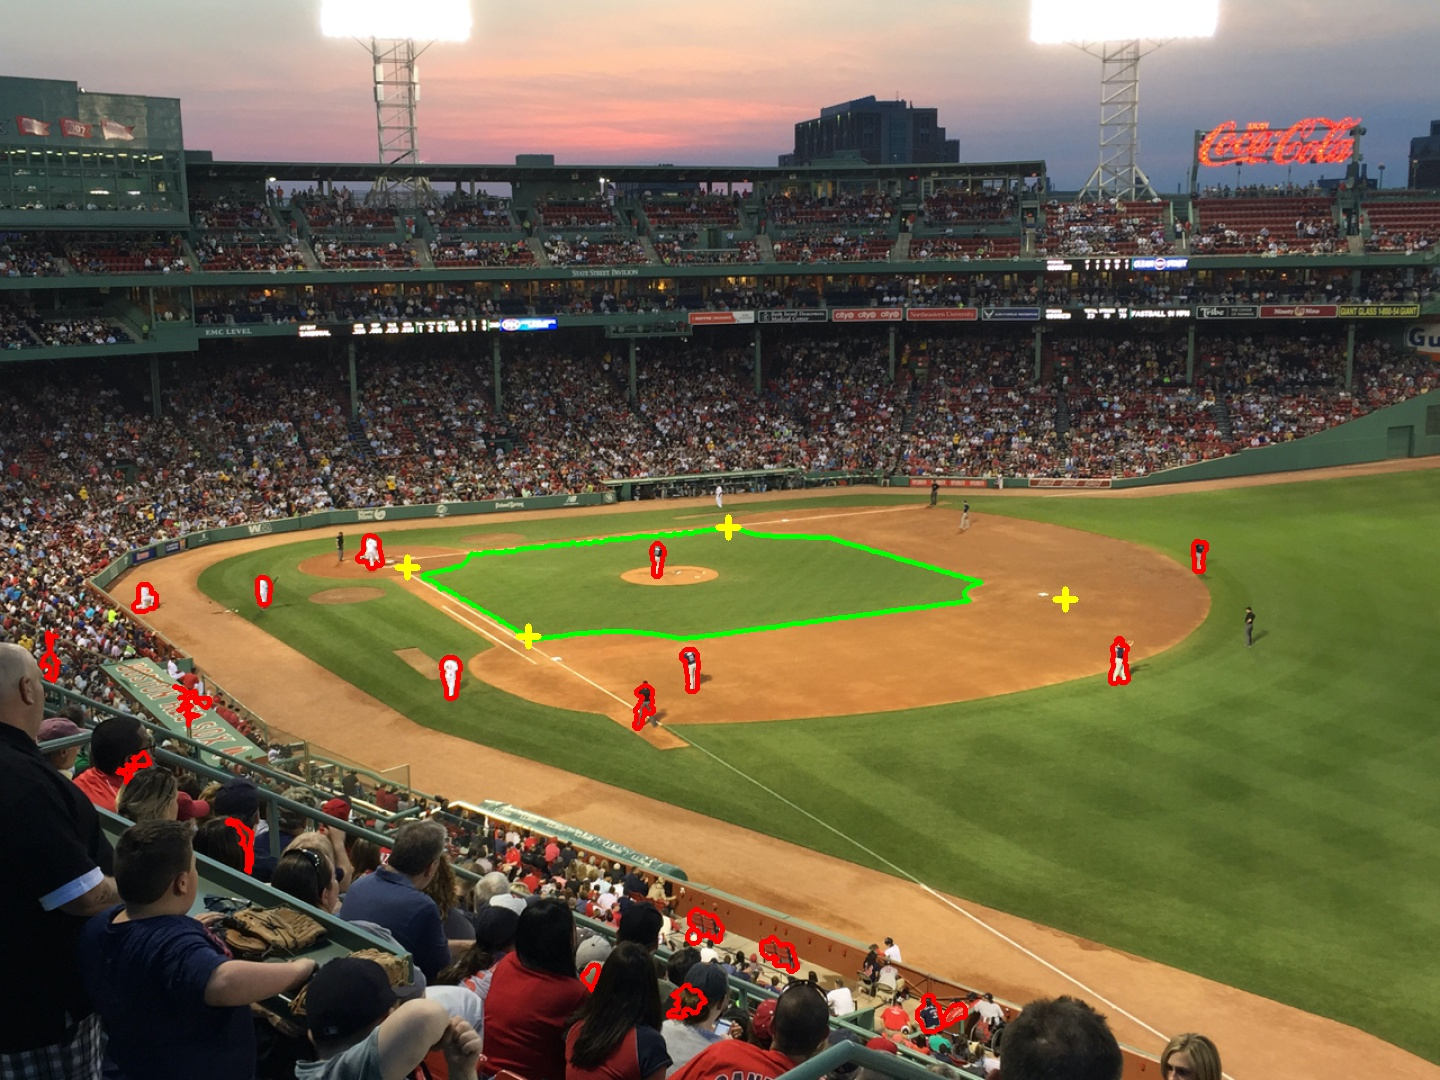
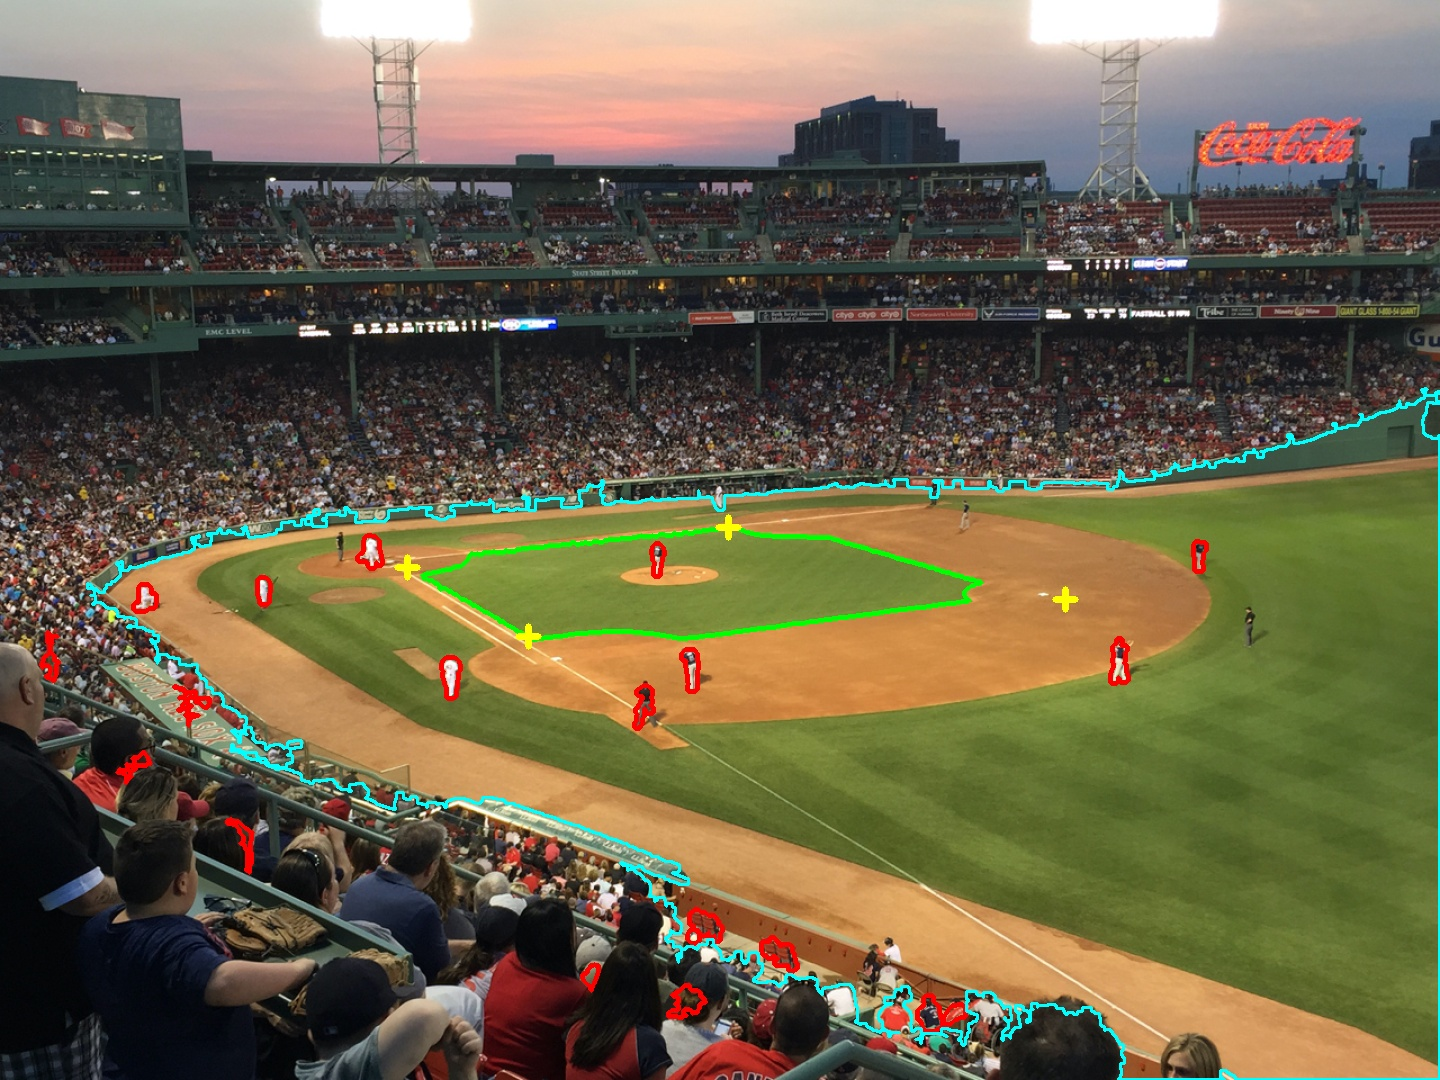
write method to check if players contours are actually on the field -- yet to be tested or implemented

diff --git a/TestPersonDetection/personDetectionTesting.py b/TestPersonDetection/personDetectionTesting.py
@@ -25,6 +25,8 @@ class PlayerFinder(object):
         self.infield = None
         self.infield_cnrs = None
 
+        self.fieldDraw = None
+
         return
 
     def reset_variables(self):
@@ -52,34 +54,33 @@ class PlayerFinder(object):
         mask = cv2.bitwise_or(mask_green, mask_brown)
         mask = cv2.bitwise_or(mask, mask_dark_brown)
         
-        image = self.get_infield_cnrs(mask_green, image)    #pass in image for quad fit debugging
+        im = self.get_infield_cnrs(mask_green, image)    #pass in image for quad fit debugging
+        if im is not None:
+            image = im      #updates output for drawing debug
         self.get_player_contours(mask)
         print("Thank you, next...")
  
         return image
     
-    def get_infield_cnrs(self, mask, image):
+    def get_infield_cnrs(self, mask, image):    #array return order: home, first, second, third
         erosion = cv2.erode(mask, numpy.ones((4, 4), numpy.uint8), iterations = 1)
         _, self.infield_contours, _ = cv2.findContours(erosion, cv2.RETR_TREE, cv2.CHAIN_APPROX_SIMPLE)
 
-        infield_contour_list = self.area_cut(self.infield_contours, 18500, 200000)
+        infield_contour_list = self.area_cut(self.infield_contours, 18500, 2000000)
         #self.infield = min(infield_contour_list, key=lambda x:x['area'])['contour']
         
         self.top_infield = [x['contour'] for x in infield_contour_list]
 
-        #hulls = [cv2.convexHull(x) for x in self.top_infield]    # too little coordinates for quad_fit
-        #self.infield = self.top_infield[0]
-
-        for inf in infield_contour_list:
-            width = inf['widths'][0]
-            height = inf['widths'][1]
+        for cnt in infield_contour_list:
+            width = cnt['widths'][0]
+            height = cnt['widths'][1]
             ratio = height / width
 
-            if (ratio < 0.4) and (self.infield is None or width < self.infield['widths'][0]) and cv2.contourArea(inf['contour']) > 10000:
-                self.infield = inf
+            if (ratio < 0.4) and (self.infield is None or width < self.infield['widths'][0]) and cv2.contourArea(cnt['contour']) > 10000:
+                self.infield = cnt
 
         if self.infield is None:
-            return
+            return None
         
         self.infield = self.infield['contour']
 
@@ -93,8 +94,25 @@ class PlayerFinder(object):
     def get_player_contours(self, mask):
         erosion = cv2.erode(mask, numpy.ones((5,5), numpy.uint8), iterations = 1)   
         _, self.player_contours, _ = cv2.findContours(erosion, cv2.RETR_TREE, cv2.CHAIN_APPROX_SIMPLE)
+        
+        field = None
 
-        contour_list = self.area_cut(self.player_contours, 270, 2000)
+        contour_list = []
+        for c in self.player_contours:
+            center, widths = self.contour_center_width(c)
+            area = widths[0] * widths[1]
+
+            if area > 270 and area < 2000:
+                contour_list.append({'contour': c, 'center': center, 'widths': widths, 'area': area})
+
+            if field is None or field['area'] < area:
+                field = {'contour': c, 'center': center, 'widths': widths, 'area': area}
+            
+        # Sort the list of contours from biggest area to smallest
+        contour_list.sort(key=lambda c: c['widths'][0] * c['widths'][1], reverse=True)
+
+        self.fieldDraw = field['contour']
+
         self.top_players = [x['contour'] for x in contour_list]
         
         self.players = []
@@ -104,7 +122,7 @@ class PlayerFinder(object):
             height = player['widths'][1]
             ratio = height / width
 
-            if ratio >= 0.8 and ratio <= 3.0 and cv2.contourArea(player['contour']) > 200:
+            if ratio >= 0.8 and ratio <= 3.0:# and cv2.contourArea(player['contour']) > 200:
                 self.players.append(player)
 
         if len(self.players) == 0:
@@ -112,6 +130,30 @@ class PlayerFinder(object):
             return
         
         self.players = [x['contour'] for x in self.players]
+
+    def isCandidatePlayerOnField(self, candidateCenterPt, fieldInfo):
+        width = fieldInfo['widths'][0] / 2
+        height = fieldInfo['widths'][1] / 2
+        centerx = fieldInfo['center'][0]
+        centery = fieldInfo['center'][1]
+
+        #if center of candidate player is not even in the field's bounding box, definitely is not inside the contour -- more effiecient in best cases
+        if candidateCenterPt[0] >= centerx + width or candidateCenterPt[0] <= centerx - width or candidateCenterPt[1] <= centery - height and candidateCenterPt[1] >= centery + height:
+            return False
+        
+        sameXvalue = []     #array of x values that lie at the same y value as the candidate
+        sameYvalue = []     #array of y values that lie at the same x value as the candidate
+
+        for pt in fieldInfo['contour']:
+            if pt[0][1] == centerx:
+                sameXvalue.append(pt[0][0])
+            if pt[0][0] == centery:
+                sameYvalue.append(pt[0][1])
+
+        if len(sameXvalue) >= 2 and len(sameYvalue) >= 2 and centerx > min(sameXvalue) and centerx < max(sameXvalue) and centery > min(sameYvalue) and centery < max(sameYvalue):
+            return True
+        
+        return False
 
     def area_cut(self, cnts, min_area, max_area):
         contour_list = []
@@ -175,6 +217,9 @@ class PlayerFinder(object):
         if self.infield_cnrs is not None:
             for cnr in self.infield_cnrs:
                 cv2.drawMarker(output_frame, tuple(cnr), (0, 255, 255), cv2.MARKER_CROSS, 20, 5)
+
+        if self.fieldDraw is not None:
+            cv2.drawContours(output_frame, [self.fieldDraw], -1, (255, 255, 0), 2)
         
         return output_frame
 
